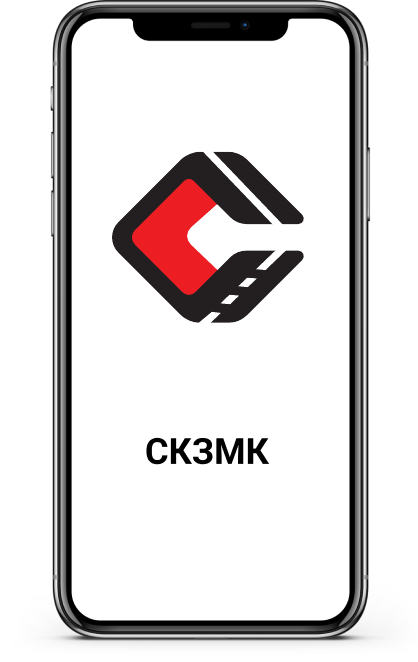
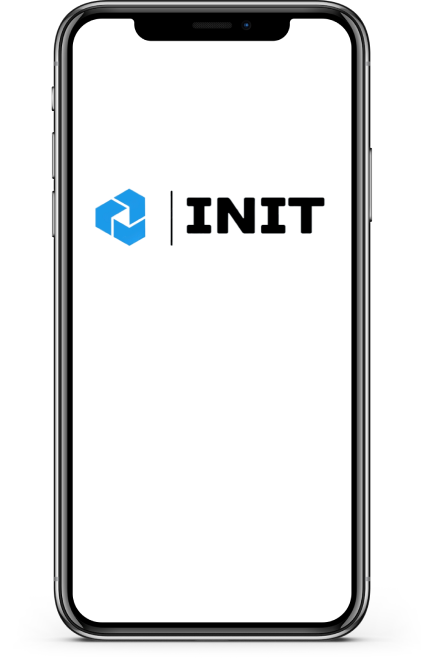
redisign

diff --git a/src/components/Header/Header.jsx b/src/components/Header/Header.jsx
@@ -24,12 +24,8 @@ export default function Header({isProfile}) {
             <div className={s.header}>
               <Link to='about' spy={true} smooth={true} offset={50} duration={500} className={s.menuLink}>
                 <div className={s.left}>
-                <img src={logo} alt="logo" width={70} className={s.logo}/>
-                <div className={s.content}>
-                  <h2 className={s.title}>СКЗМК</h2>
-                  <p className={s.text}>Северо-Кавказский Завод Металлоконструкций</p>
+                  <img src={logo} alt="logo" width={150} className={s.logo}/>
                 </div>
-              </div>
               </Link>
               <div className={s.menu}>
                 <ul className={s.list}>
@@ -63,18 +59,14 @@ export default function Header({isProfile}) {
             <div className={s.header}>
               <NavLink to='/documents'>
                 <div className={s.left}>
-                  <img src={logo} alt="logo" width={70} className={s.logo}/>
-                  <div className={s.content}>
-                    <h2 className={s.title}>СКЗМК</h2>
-                    <p className={s.text}>Северо-Кавказский Завод Металлоконструкций</p>
-                  </div>
+                  <img src={logo} alt="logo" width={150} className={s.logo}/>
                 </div>    
               </NavLink>
               <div className={s.msgNot}>
                 <Messages/>
                 <Notifications/>
               </div>
-              {isLogin && <UserHeader/>}
+              {isLogin && <UserHeader isProfile={true}/>}
             </div>
           </div>
         </div>

diff --git a/src/components/FirstScreen/FirstScreen.jsx b/src/components/FirstScreen/FirstScreen.jsx
@@ -7,9 +7,7 @@ export default function FirstScreen() {
         <div className='container'> 
           <div className={s.content}>
             <h1 className={s.title}>О нас</h1>
-            <p className={s.text}>ООО «Северо-Кавказский Завод Металлоконструкций» — это современное производство широкого ассортимента дорожных знаков, барьерного ограждения, остановочных павильонов и ряда направлений продукции, способствующей безопасности дорожного движения.
-            Сегодня на предприятии трудятся 250 сотрудников.
-            Завод использует только высококачественные технологии производства. Производство осуществляется только на немецком и итальянском оборудовании.
+            <p className={s.text}>Мы предлагаем цифровую среду для взаимодействия между заказчиками, подрядчиками и субподрядчиками. Мы стремимся обеспечить автоматизацию сбора полного пакета документов и заполнения документов, а также истребование/предоставление необходимых документов от/для заказчика, подрядчика и субподрядчика.
             </p>
           </div>
         </div>

diff --git a/src/components/Application/Application.jsx b/src/components/Application/Application.jsx
@@ -2,8 +2,6 @@ import s from './Application.module.scss'
 import appStore from '../../assets/appStore.png'
 import googlePlay from '../../assets/googlePlay.png'
 import mobile from '../../assets/mobile.png'
-import mobileMob from '../../assets/mobileMob.png'
-import logo from '../../assets/logo.png'
 
 export default function Application() {
   return (
@@ -25,8 +23,7 @@ export default function Application() {
           <img src={mobile} alt="mobile" className={s.image}/>
         </div>
         <div className={s.imageBlockMob}>
-          <img src={mobileMob} alt="mobile" className={s.mobileMob}/>
-          <img src={logo} className={s.logoMob}/>
+          <img src={mobile} alt="mobile" className={s.mobileMob}/>
           <div className={s.buttonsMob}>
             <a href="#">
               <img src={appStore} alt="app store" width={250} className={s.buttonImage}/>

diff --git a/src/components/UserHeader/UserHeader.jsx b/src/components/UserHeader/UserHeader.jsx
@@ -5,19 +5,19 @@ import signout from '../../assets/signout.svg'
 import { logout } from "../../features/userSlice"
 import { Link } from "react-router-dom"
 
-export default function UserHeader() {
+export default function UserHeader({isProfile}) {
 
   const user = useSelector(state => state.userSlice.userInfo)
   const dispatch = useDispatch()
 
   return (
     <div className={s.userHeader}>
-      <Link to='/documents/profile'>
+      {!isProfile && <Link to='/documents/profile'>
         <div className={s.profileLink}>
           <img src={userIcon} alt="user" className={s.userIcon}/>
           <p className={s.name}>{user.name}</p>
         </div>
-      </Link>
+      </Link>}
       <Link to='/documents'>
         <button className={s.signoutButton} onClick={()=> dispatch(logout())}>
           <img src={signout} alt="signout" className={s.signoutIcon}/>

diff --git a/src/components/Application/Application.module.scss b/src/components/Application/Application.module.scss
@@ -27,7 +27,8 @@
   display: flex;
   flex-direction: column;
   bottom: 10%;
-  left: 15%;
+  left: 20%;
+  margin-right: -200px;
 }
 
 .imageBlockMob {
@@ -41,6 +42,7 @@
   left: 23%;
   z-index: 1;
 }
+
 
 @include lg {
   .image {
@@ -72,16 +74,13 @@
     width: 260px;
   }
   .buttonImage {
-    width: 200px;
+    width: 150px;
   }
   .buttonsMob {
-    left: 12%;
+    left: 20%;
   }
   .text {
     width: 260px;
   }
-  .logoMob {
-    width: 150px;
-    left: 20%;
-  }
+  
 }

diff --git a/src/components/Login/Login.module.scss b/src/components/Login/Login.module.scss
@@ -1,3 +1,5 @@
+@import '../../sass/mixin';
+
 .loginButton {
   width: 150px;
   border-radius: 5px;
@@ -13,4 +15,10 @@
 .loginButton:hover {
   background-color: #585858;
   transition: 0.5s ease;
+}
+
+@include sm {
+  .loginButton {
+    width: 80px;
+  }
 }

diff --git a/src/components/Header/Header.module.scss b/src/components/Header/Header.module.scss
@@ -95,10 +95,13 @@
   .content {
     display: none;
   }
-  .logo{
-    width: 50px;
-  }
   .wrapper {
     padding: 0px 10px;
+  }
+  .logo {
+    width: 100px;
+  }
+  .msgNot {
+    margin: 0;
   }
 }

diff --git a/src/components/FirstScreen/FirstScreen.module.scss b/src/components/FirstScreen/FirstScreen.module.scss
@@ -26,9 +26,8 @@
 
 .text {
   width: 50%;
-  margin-top: 20px;
+  margin-top: 70px;
   line-height: 25px;
-  
 }
 
 @include lg {
